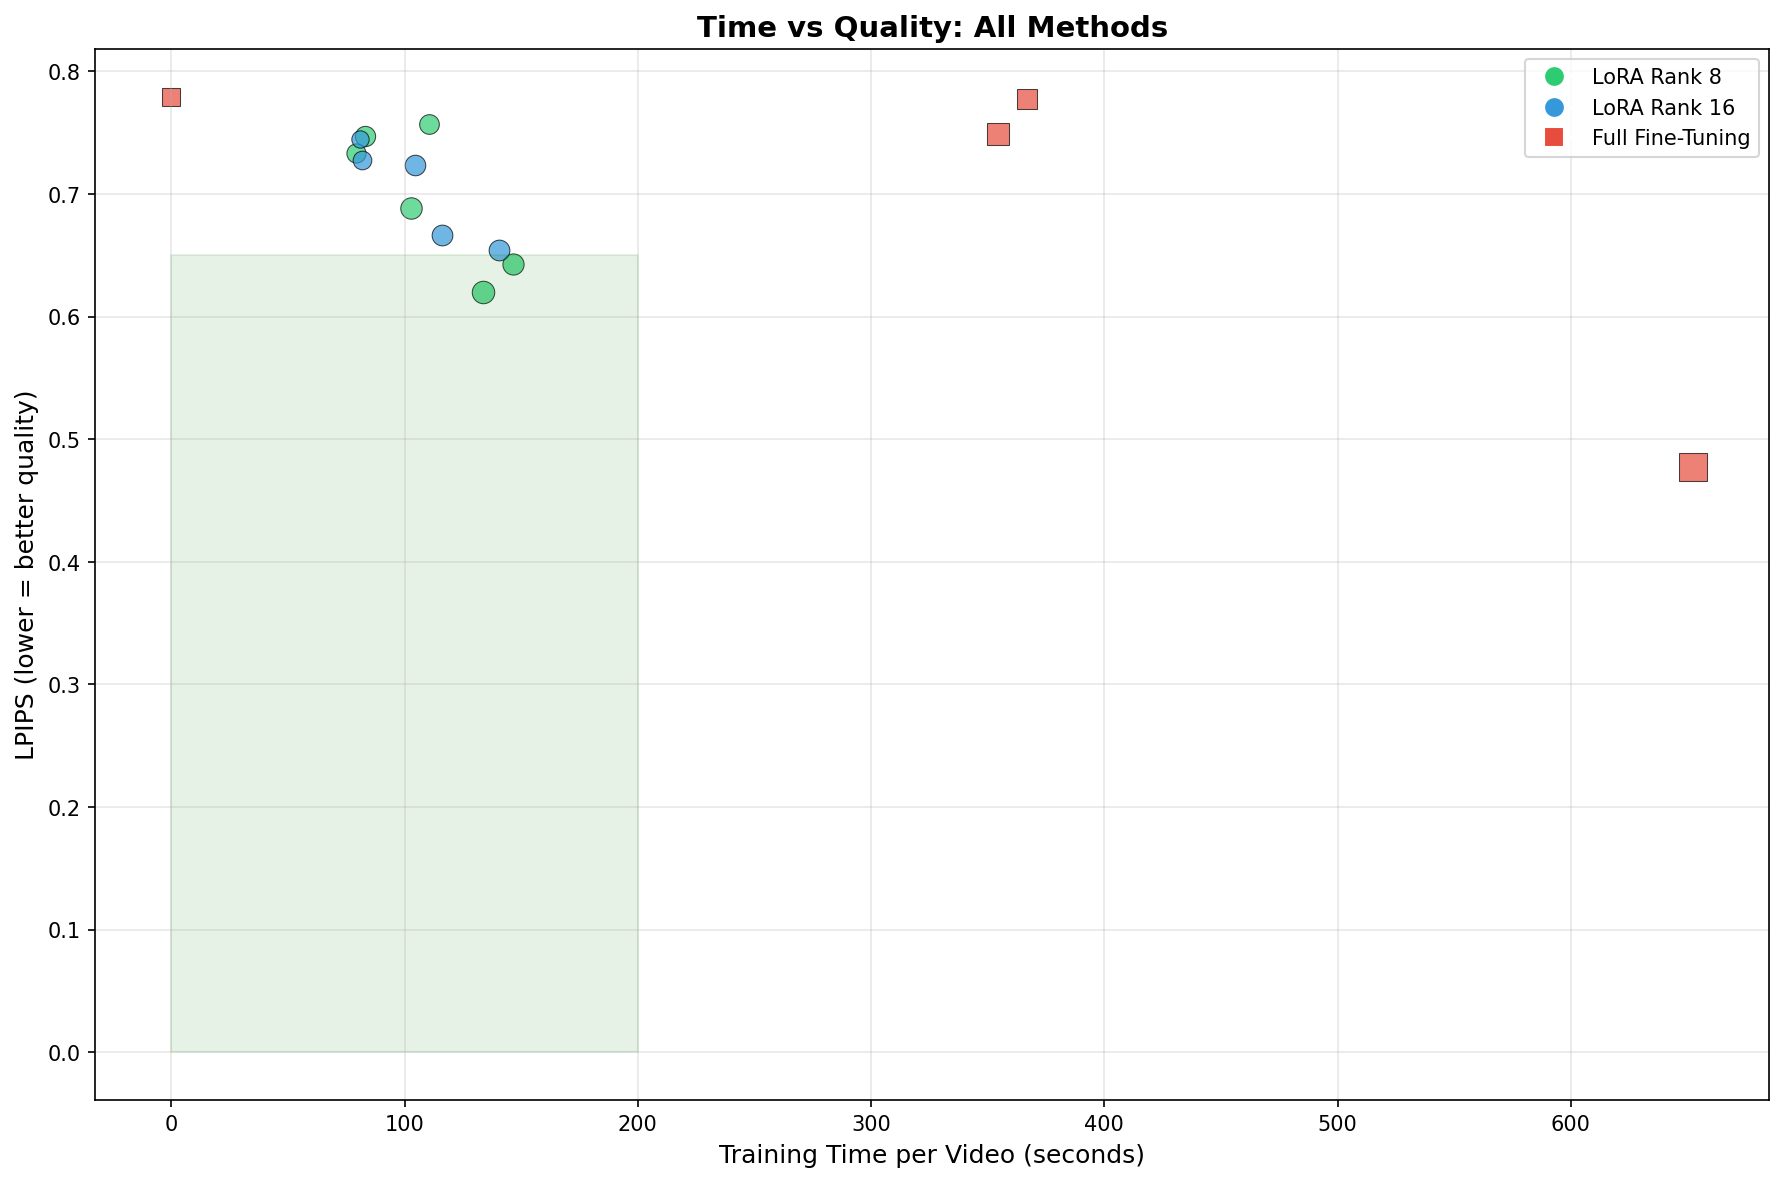
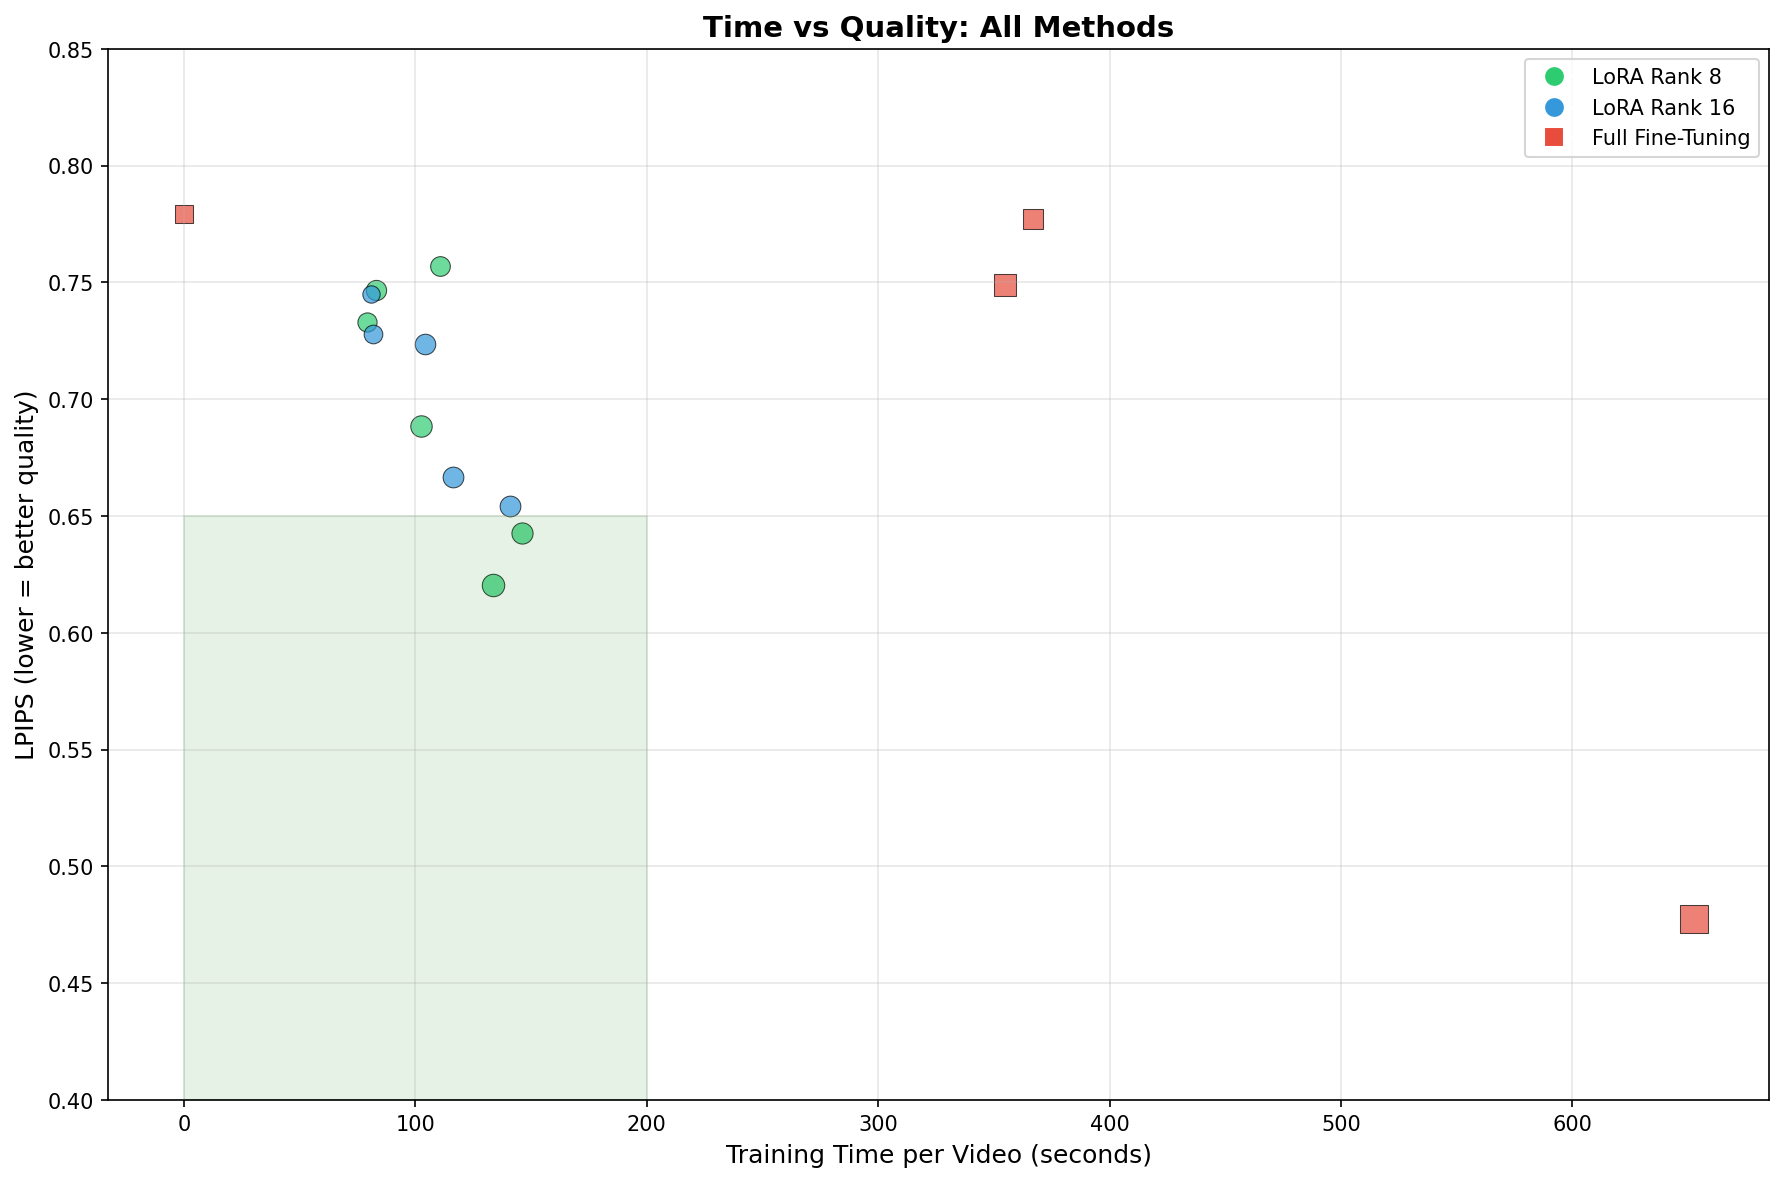
Adjust y-axis range (0.4-0.85) in efficiency plot to reduce whitespace

diff --git a/lora_experiment/scripts/visualization/compare_all_methods.py b/lora_experiment/scripts/visualization/compare_all_methods.py
@@ -410,8 +410,11 @@ def plot_efficiency_summary(lora_results: dict, full_ft_results: dict, output_di
     ax.set_title('Time vs Quality: All Methods', fontsize=14, fontweight='bold')
     ax.grid(True, alpha=0.3)
     
+    # Set y-axis to start at 0.4 to reduce whitespace and spread data points
+    ax.set_ylim(0.4, 0.85)
+    
     # Highlight the Pareto-optimal region
-    ax.fill_between([0, 200], [0, 0], [0.65, 0.65], alpha=0.1, color='green', label='Efficient Region')
+    ax.fill_between([0, 200], [0.4, 0.4], [0.65, 0.65], alpha=0.1, color='green', label='Efficient Region')
     
     plt.tight_layout()
     plt.savefig(output_dir / '4_efficiency_overview.png', dpi=150, bbox_inches='tight')
